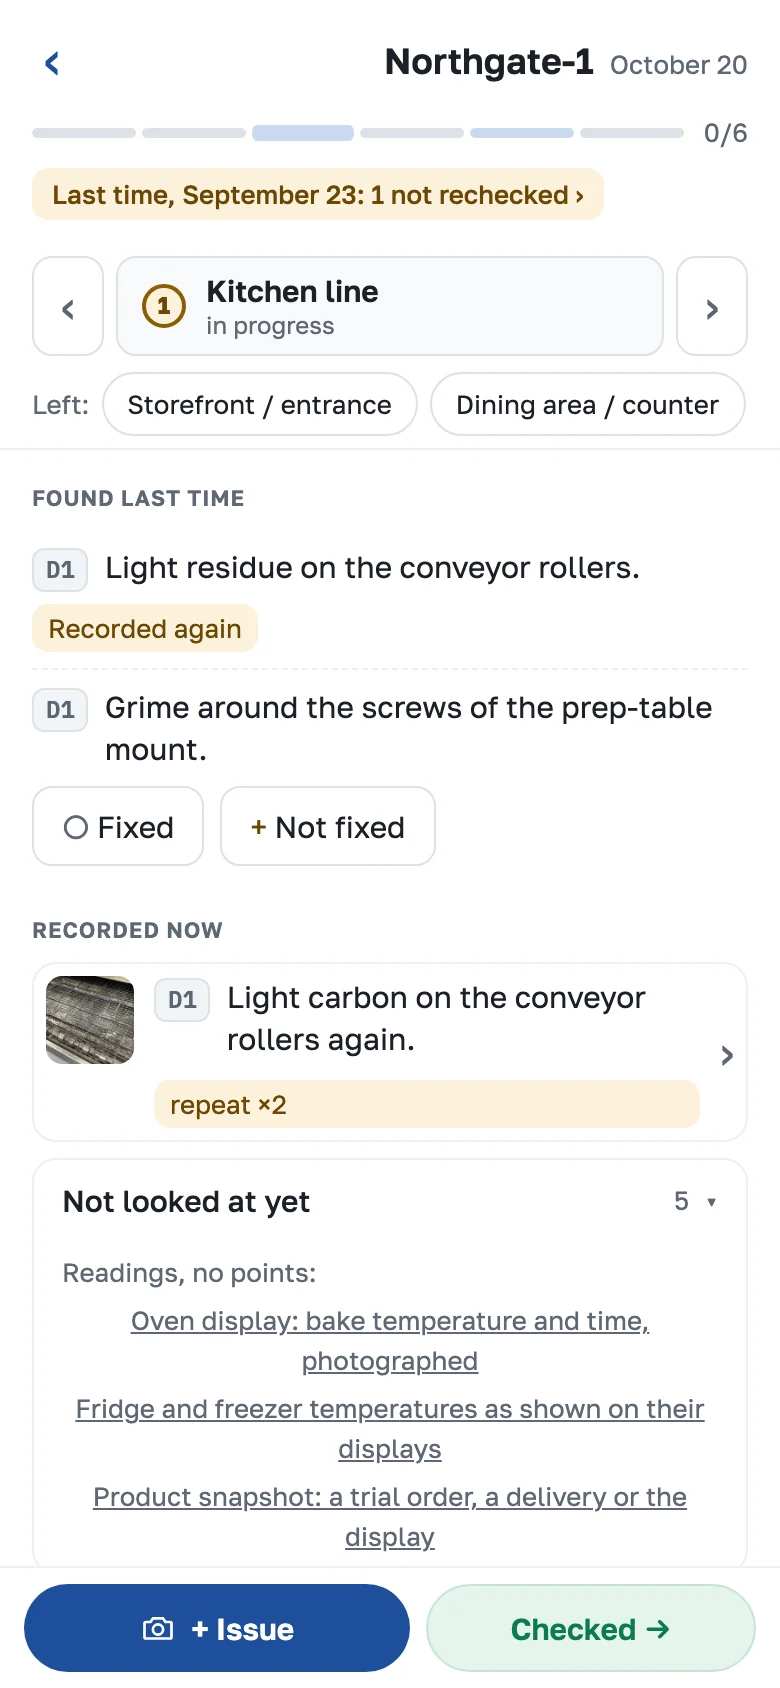
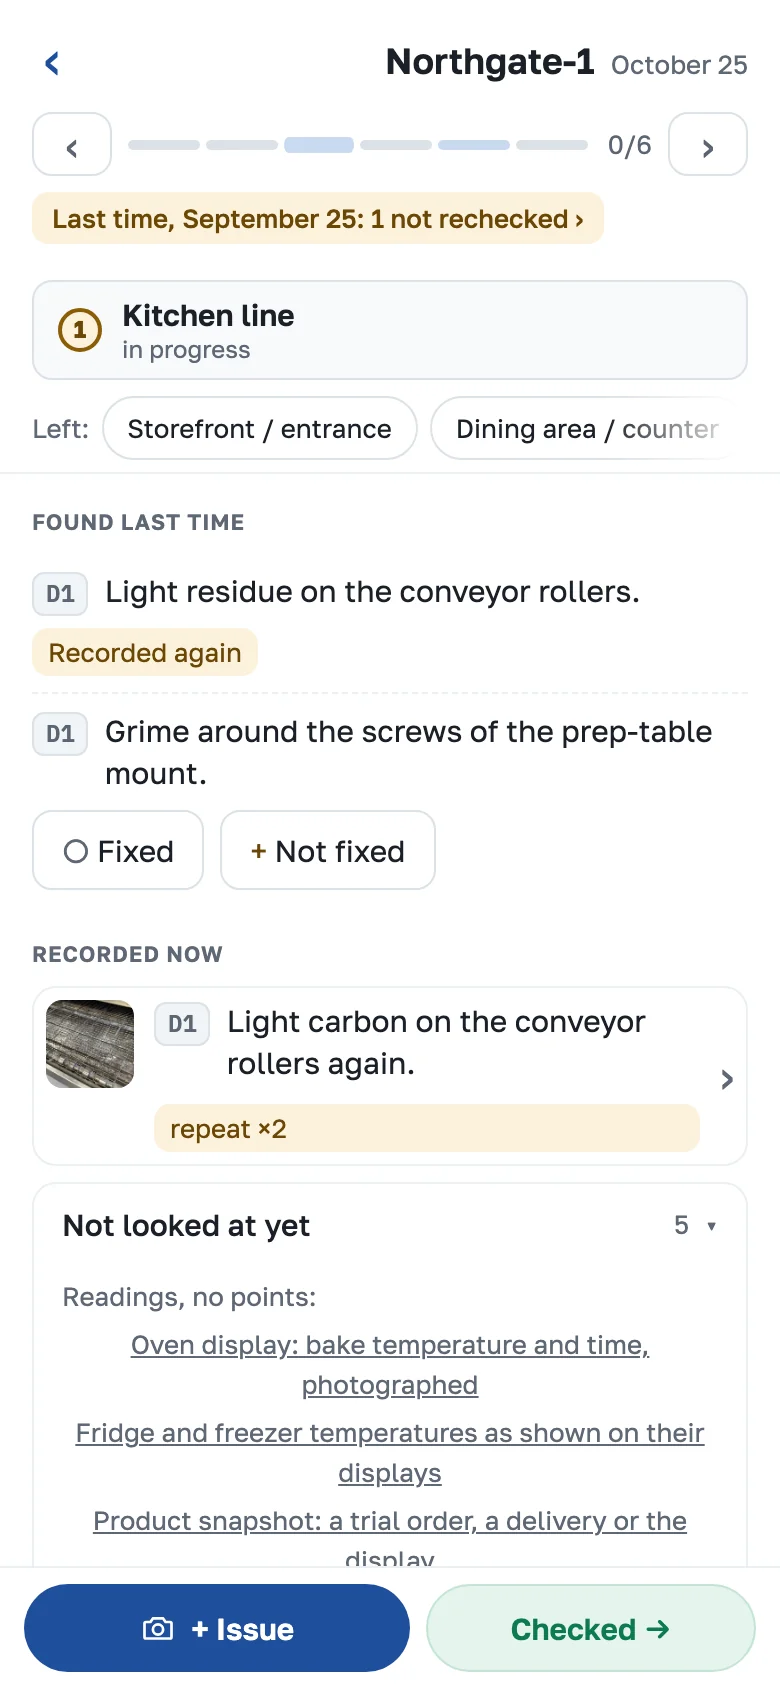
docs: снимки лендинга пересняты после D632 — шапки без облака текста

Changed region(s): [[0.0308, 0.0308, 0.9538, 0.9242], [0.9231, 0.6161, 0.9538, 0.6469], [0.8615, 0.154, 0.8923, 0.1848]]

diff --git a/docs/19-user-materials.md b/docs/19-user-materials.md
@@ -11,7 +11,7 @@
 
 | Материал | Где живёт | Чем обновляется | Сверено |
 |---|---|---|---|
-| Снимки экранов на посадочной странице — 7 штук на каждый язык (`ru`, `en`): `walk`, `match`, `report`, `plan`, `actions`, `network`, `pizzerias` | `src/web/static/landing/<имя>-<язык>.webp`, размеры — `sizes.json`; показываются на `/welcome` ([12-web-admin — «Посадочная страница»](12-web-admin.md#посадочная-страница-и-открытое-демо-d524)) | `make landing-shots` — одна команда, сама входит на демо-стенд, обходит экраны и пишет снимки; потом посмотреть каждый и закоммитить | 2026-10-19 |
+| Снимки экранов на посадочной странице — 7 штук на каждый язык (`ru`, `en`): `walk`, `match`, `report`, `plan`, `actions`, `network`, `pizzerias` | `src/web/static/landing/<имя>-<язык>.webp`, размеры — `sizes.json`; показываются на `/welcome` ([12-web-admin — «Посадочная страница»](12-web-admin.md#посадочная-страница-и-открытое-демо-d524)) | `make landing-shots` — одна команда, сама входит на демо-стенд, обходит экраны и пишет снимки; потом посмотреть каждый и закоммитить | 2026-10-23 |
 | Тексты посадочной страницы (ключи `landing.*`, оба языка) | `src/web/texts_demo.py` | правкой словаря, тест `tests/test_web_landing.py` сверяет полноту двух языков | 2026-10-19 |
 | Карточка Decimus в хабе imf-vc | `src/content/projects/decimus.yaml` в `GarroV/imf-vc` | правкой YAML и пушем в `main` imf-vc (см. `CLAUDE.md`) | не сверялась |
 
@@ -29,10 +29,7 @@
 | `network` | главная УК `/overview?period=all`: «Топ нарушений», «Где сеть теряет проценты», таблица «Пиццерии» |
 | `pizzerias` | «Страны» (`/country/AM?period=all&unit=…`): страна слева, выбранная пиццерия справа |
 
-**Ждут пересъёмки после D632 (23.10.2026; шапки без облака текста — `make landing-shots`):**
-`plan` (в шапке календаря больше нет строки «период · проверок · поездок»), `actions`
-(нет «в списке: N» справа от заголовка), `network` (подсказки блоков «Топ нарушений» и
-«Потери по процессам» стали значком «?»). `walk`, `report`, `pizzerias` не затронуты.
+**Пересняты после D632 (23.10.2026, шапки без облака текста):** все семь снимков на обоих языках, `make landing-shots` с открытого демо.
 
 Ограничения демо-данных, которые видны на снимках: мини-апп демо всегда английский (язык
 обхода берётся из профиля проверяющего, а не из `?lang=`), поэтому `walk-ru` показывает
